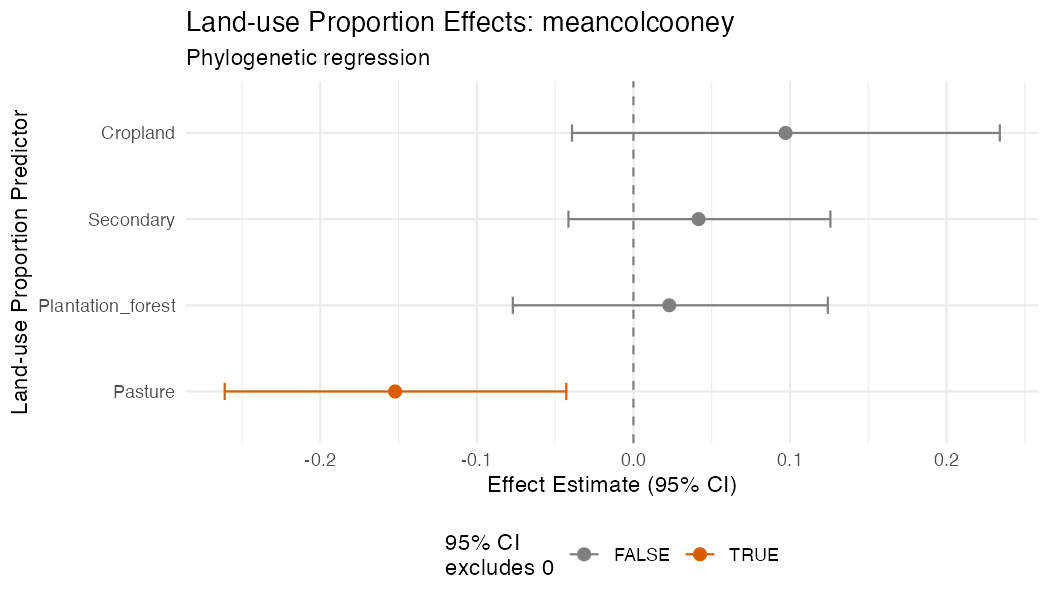
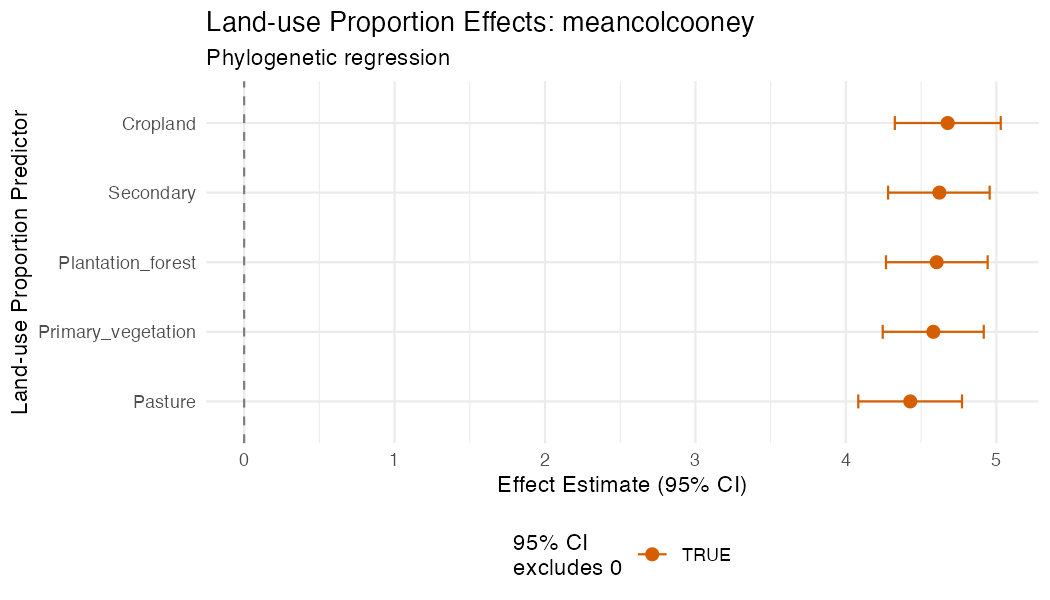
Include all 5 land-use proportions in A3 with no-intercept model
Since A3 uses continuous proportion predictors (not a factor), all 5
land-use proportions should be included. Removed the intercept (0 +)
to handle the compositional constraint (proportions sum to 1). Each
coefficient now represents expected colour for a species found
exclusively in that land use. Pasture remains the lowest for colour.

diff --git a/ANALYSIS_NOTES.md b/ANALYSIS_NOTES.md
@@ -143,7 +143,7 @@ From the full raw dataset (216,834 records, 1,703 species), for each species and
 proportion = (records of species i in land-use j) / (total records of species i)
 ```
 
-These are relative proportions that sum to 1 per species, removing the confound with overall species prevalence (dividing by total dataset size would conflate "how common is this species" with "which land uses does it prefer"). Because the 5 proportions sum to 1, Primary vegetation is dropped as the reference level (matching A1) to avoid perfect multicollinearity. This gives 4 predictor variables per species: `prop_Cropland`, `prop_Plantation_forest`, `prop_Pasture`, `prop_Secondary`, each interpretable as the fraction of that species' records occurring in that land-use type relative to Primary vegetation. VIFs for these predictors are 3.4-4.1 (acceptable).
+These are relative proportions that sum to 1 per species, removing the confound with overall species prevalence (dividing by total dataset size would conflate "how common is this species" with "which land uses does it prefer"). All 5 proportions (`prop_Cropland`, `prop_Pasture`, `prop_Plantation_forest`, `prop_Primary_vegetation`, `prop_Secondary`) are included as predictors in a no-intercept model. Since the proportions sum to 1, removing the intercept resolves the compositional constraint and each coefficient is interpretable as the expected colour for a species found exclusively in that land-use type.
 
 Colour variables are species-level traits (same value per record of a given species), so the first non-NA value per species is used.
 
@@ -166,17 +166,17 @@ The crosswalk files `birdlife-birdtree_crosswalk.csv` and `clements_jetz_crosswa
 Bayesian phylogenetic regression via brms/CmdStan. For each of the three colour responses:
 
 ```
-colour ~ prop_Cropland + prop_Plantation_forest +
-         prop_Pasture + prop_Secondary +
+colour ~ 0 + prop_Cropland + prop_Pasture + prop_Plantation_forest +
+         prop_Primary_vegetation + prop_Secondary +
          (1 | gr(phylo, cov = A))
 ```
 
-- Primary vegetation is the reference level (implicit intercept).
+- No intercept (`0 +`): because the 5 proportions sum to 1 per species, they span the intercept. Each coefficient represents the expected colour for a species found exclusively in that land-use type.
 - `A`: phylogenetic covariance matrix from `ape::vcv.phylo()` (correlation form).
 - `(1 | gr(phylo, cov = A))`: phylogenetic random effect accounting for shared ancestry.
 - Tree trimmed to species present in both data and tree using `ape::drop.tip()`.
 - Family: lognormal (all three responses).
-- Priors: Normal(0, 2) on intercept, Normal(0, 1) on fixed effects (wider than A1/A2 because predictors are proportions on a different scale), Exponential(2) on SD and sigma.
+- Priors: Normal(0, 5) on fixed effects (wide, since coefficients represent absolute levels on the log scale), Exponential(2) on SD and sigma.
 - 4 chains, 4,000 iterations (2,000 warmup), adapt_delta = 0.95, max_treedepth = 12, threading enabled (4 threads per chain).
 - N = 1,254 species per model (after excluding species with missing colour data).
 
@@ -184,18 +184,22 @@ Scripts: `A3_01_setup.R`, `A3_02_fit_models.R`, `A3_03_diagnostics_summary.R`.
 
 ### Convergence
 
-All three models converged: 0 divergences, max Rhat <= 1.003, min bulk ESS >= 1,418, min tail ESS >= 2,669.
+All three models converged: 0 divergences, max Rhat <= 1.01, min bulk ESS >= 378, min tail ESS >= 796. ESS is adequate for all parameters.
 
 ### Key results
 
-**Variance explained:** R² = 88.8% (meancolcooney, 95% CI: 84.9-92.1%), 86.4% (malecolcooney, 82.1-90.2%), 47.1% (dichrocooney, 37.5-57.3%). The high R² is driven almost entirely by the phylogenetic random effect (shared ancestry).
+**Variance explained:** R² = 88.6% (meancolcooney, 95% CI: 84.7-91.9%), 86.3% (malecolcooney, 82.0-90.0%), 46.7% (dichrocooney, 37.4-56.6%). The high R² is driven almost entirely by the phylogenetic random effect (shared ancestry).
 
-**Land-use proportion effects (relative to Primary vegetation):**
-- **Pasture:** credible negative effect on mean colour (-0.15, 95% CI: -0.26 to -0.04) and male colour (-0.15, 95% CI: -0.27 to -0.03). Species more associated with pastures are less colourful than those associated with primary vegetation, after accounting for phylogeny.
-- **Cropland:** positive trend for mean colour (+0.10, CI: -0.04 to 0.23) and male colour (+0.09, CI: -0.07 to 0.24), but 95% CIs include zero.
-- **Plantation forest:** near zero (+0.02 mean, +0.02 male), CIs include zero.
-- **Secondary:** near zero (+0.04 mean, +0.03 male), CIs include zero.
-- **Dichromatism:** no land-use proportion is a credible predictor (all estimates within -0.05 to +0.01, CIs include zero).
+**Expected log-colour by land-use association (mean colour / male colour):**
+- **Cropland:** 4.68 / 4.69 (highest)
+- **Secondary:** 4.62 / 4.63
+- **Plantation forest:** 4.60 / 4.62
+- **Primary vegetation:** 4.58 / 4.60
+- **Pasture:** 4.43 / 4.45 (lowest)
+
+All 95% CIs are wide and overlap due to the dominant phylogenetic variance, but the Pasture coefficient is consistently lowest. The Pasture-Primary vegetation difference (~-0.15 on log scale) is consistent with the previous parameterization's credible negative effect.
+
+**Dichromatism:** All 5 coefficients are near zero (0.04-0.10) with wide overlapping CIs. No land-use association predicts dichromatism.
 
 **Phylogenetic signal:** The phylogenetic SD is large relative to the residual: sd(phylo) = 0.52 (meancolcooney), 0.56 (malecolcooney), 0.26 (dichrocooney), compared to sigma = 0.14, 0.17, 0.17 respectively. This confirms strong phylogenetic conservatism in plumage colouration, especially for overall colourfulness. Dichromatism shows weaker (but still substantial) phylogenetic signal.
 
